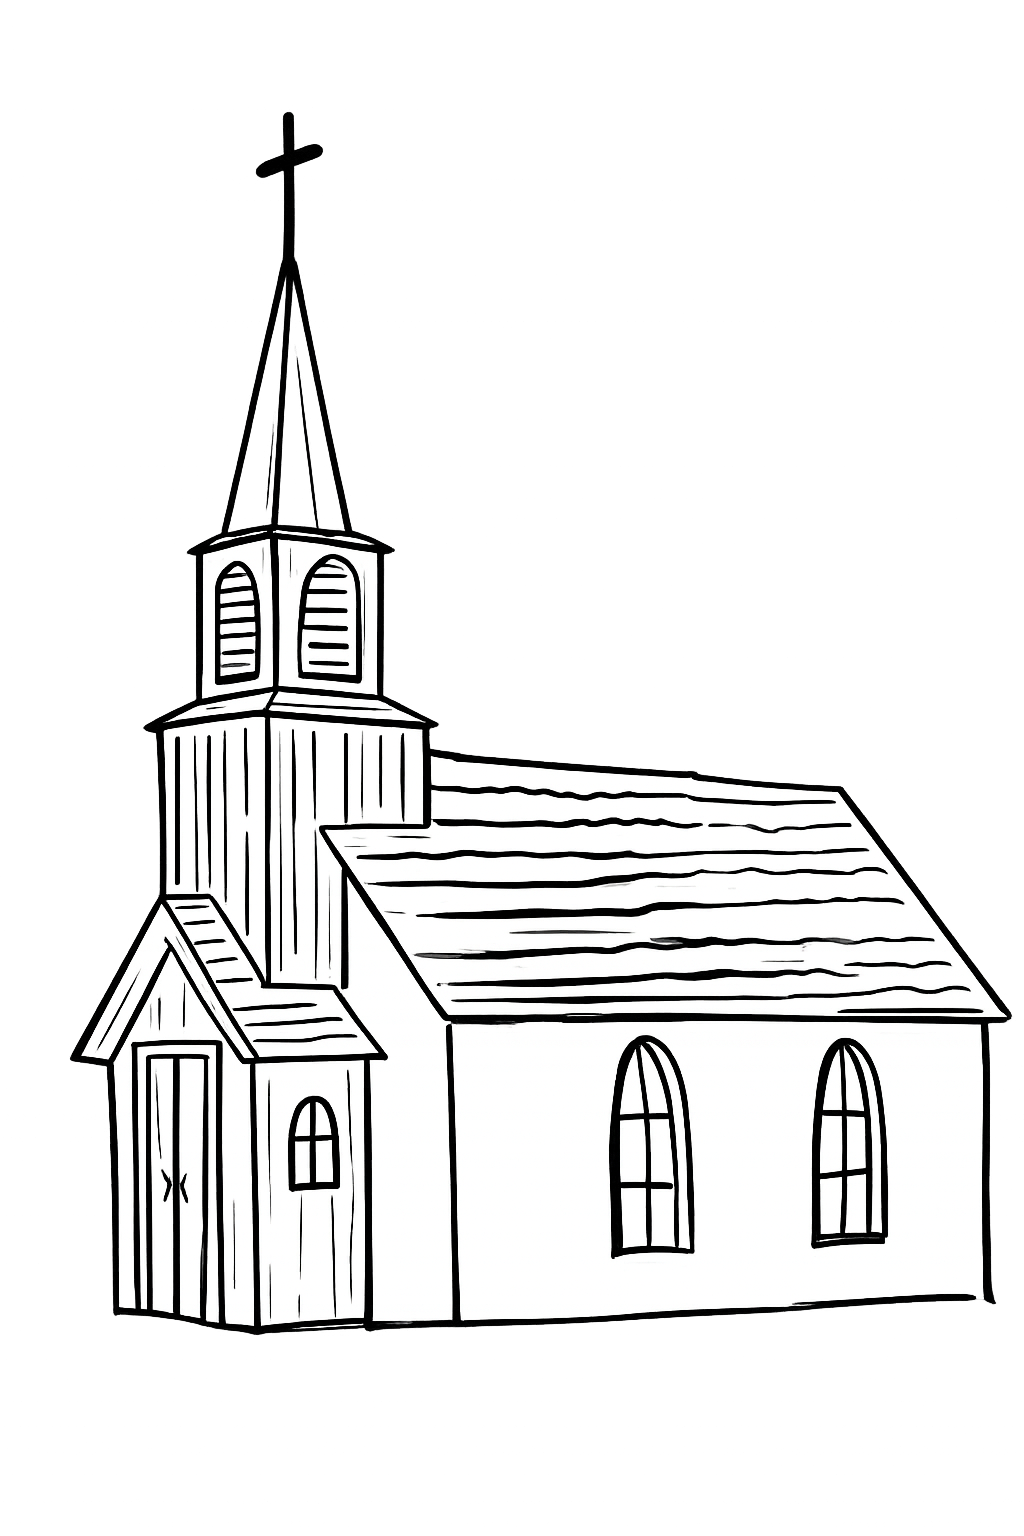
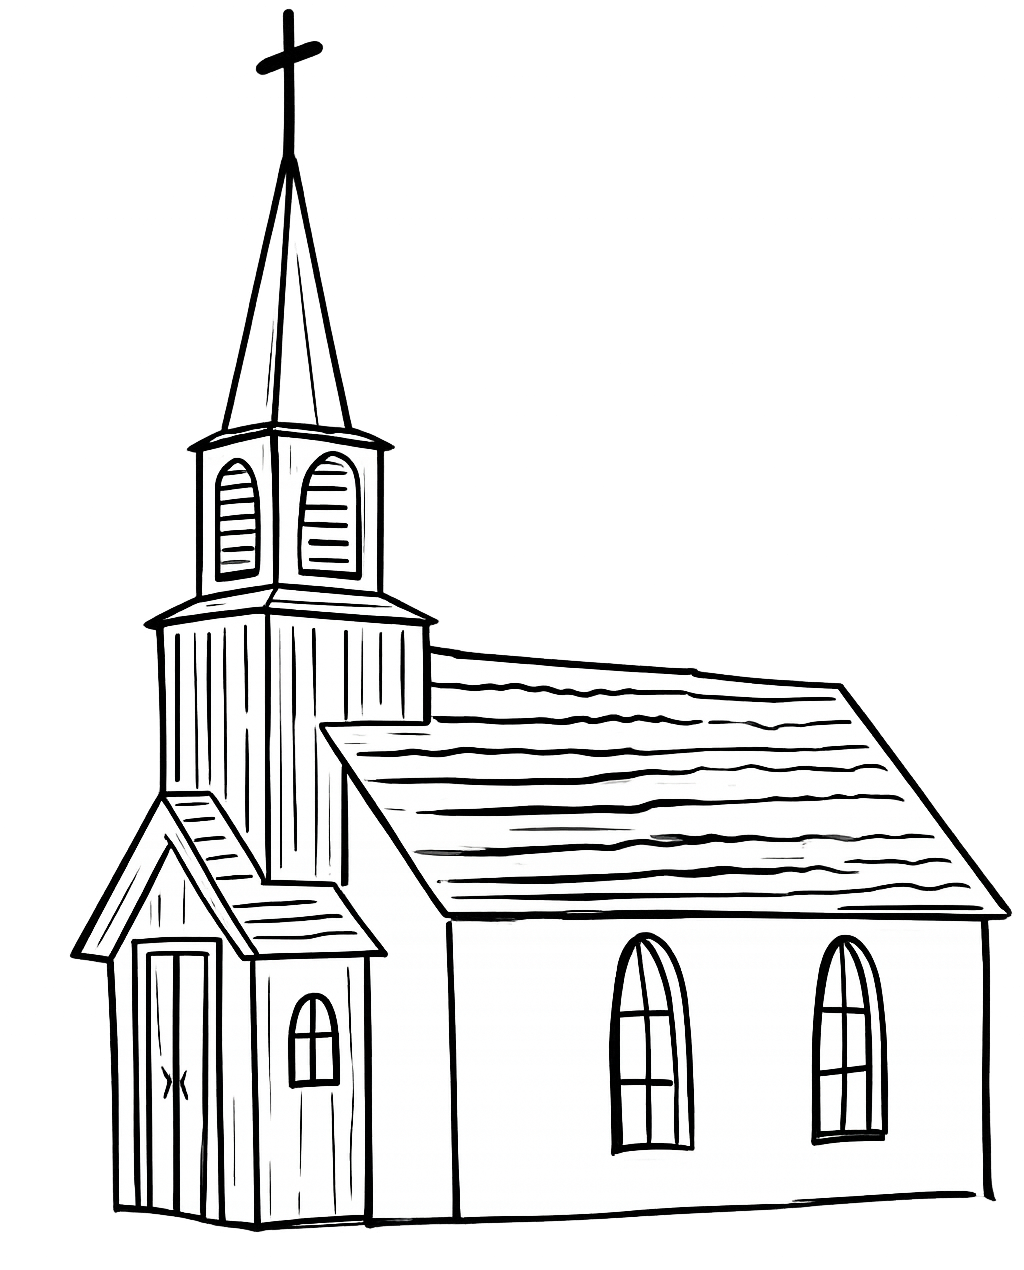
aggiunta immagine chiesa

Changed region(s): [[0.0625, 0.0, 1.0, 0.9827]]

diff --git a/src/Stich.jsx b/src/Stich.jsx
@@ -197,7 +197,7 @@ const Stich = () => {
         </div>
       </header>
       <section
-        className='py-[120px] bg-surface-container-low'
+        className='py-[120px] bg-surface-container-low bg-cover bg-center bg-no-repeat'
         id='locations'
         style={{ backgroundImage: `url(${backgroundImg})` }}
       >
@@ -209,19 +209,15 @@ const Stich = () => {
           </div>
           <div className='grid md:grid-cols-2 gap-12'>
             <div className='bg-white p-12 ambient-glow relative group hover:-translate-y-2 transition-transform duration-500'>
-              <div className='absolute top-0 right-0 p-5 text-primary/10 group-hover:text-primary/20 transition-colors'>
-                {/* <img
+              <div className='absolute -top-20 -right-10 p-1 text-primary/10 group-hover:text-primary/20 transition-colors'>
+                <img
                   src={chiesaimg}
                   style={{
-                    width: "30%",
+                    width: "35%",
+                    marginLeft: "auto",
+                    display: "block",
                   }}
-                ></img> */}
-                <span
-                  className='material-symbols-outlined text-6xl'
-                  style={{ fontVariationSettings: "'FILL' 1" }}
-                >
-                  church
-                </span>
+                />
               </div>
               <span className='font-label-md text-primary tracking-widest uppercase mb-6 block'>
                 Cerimonia